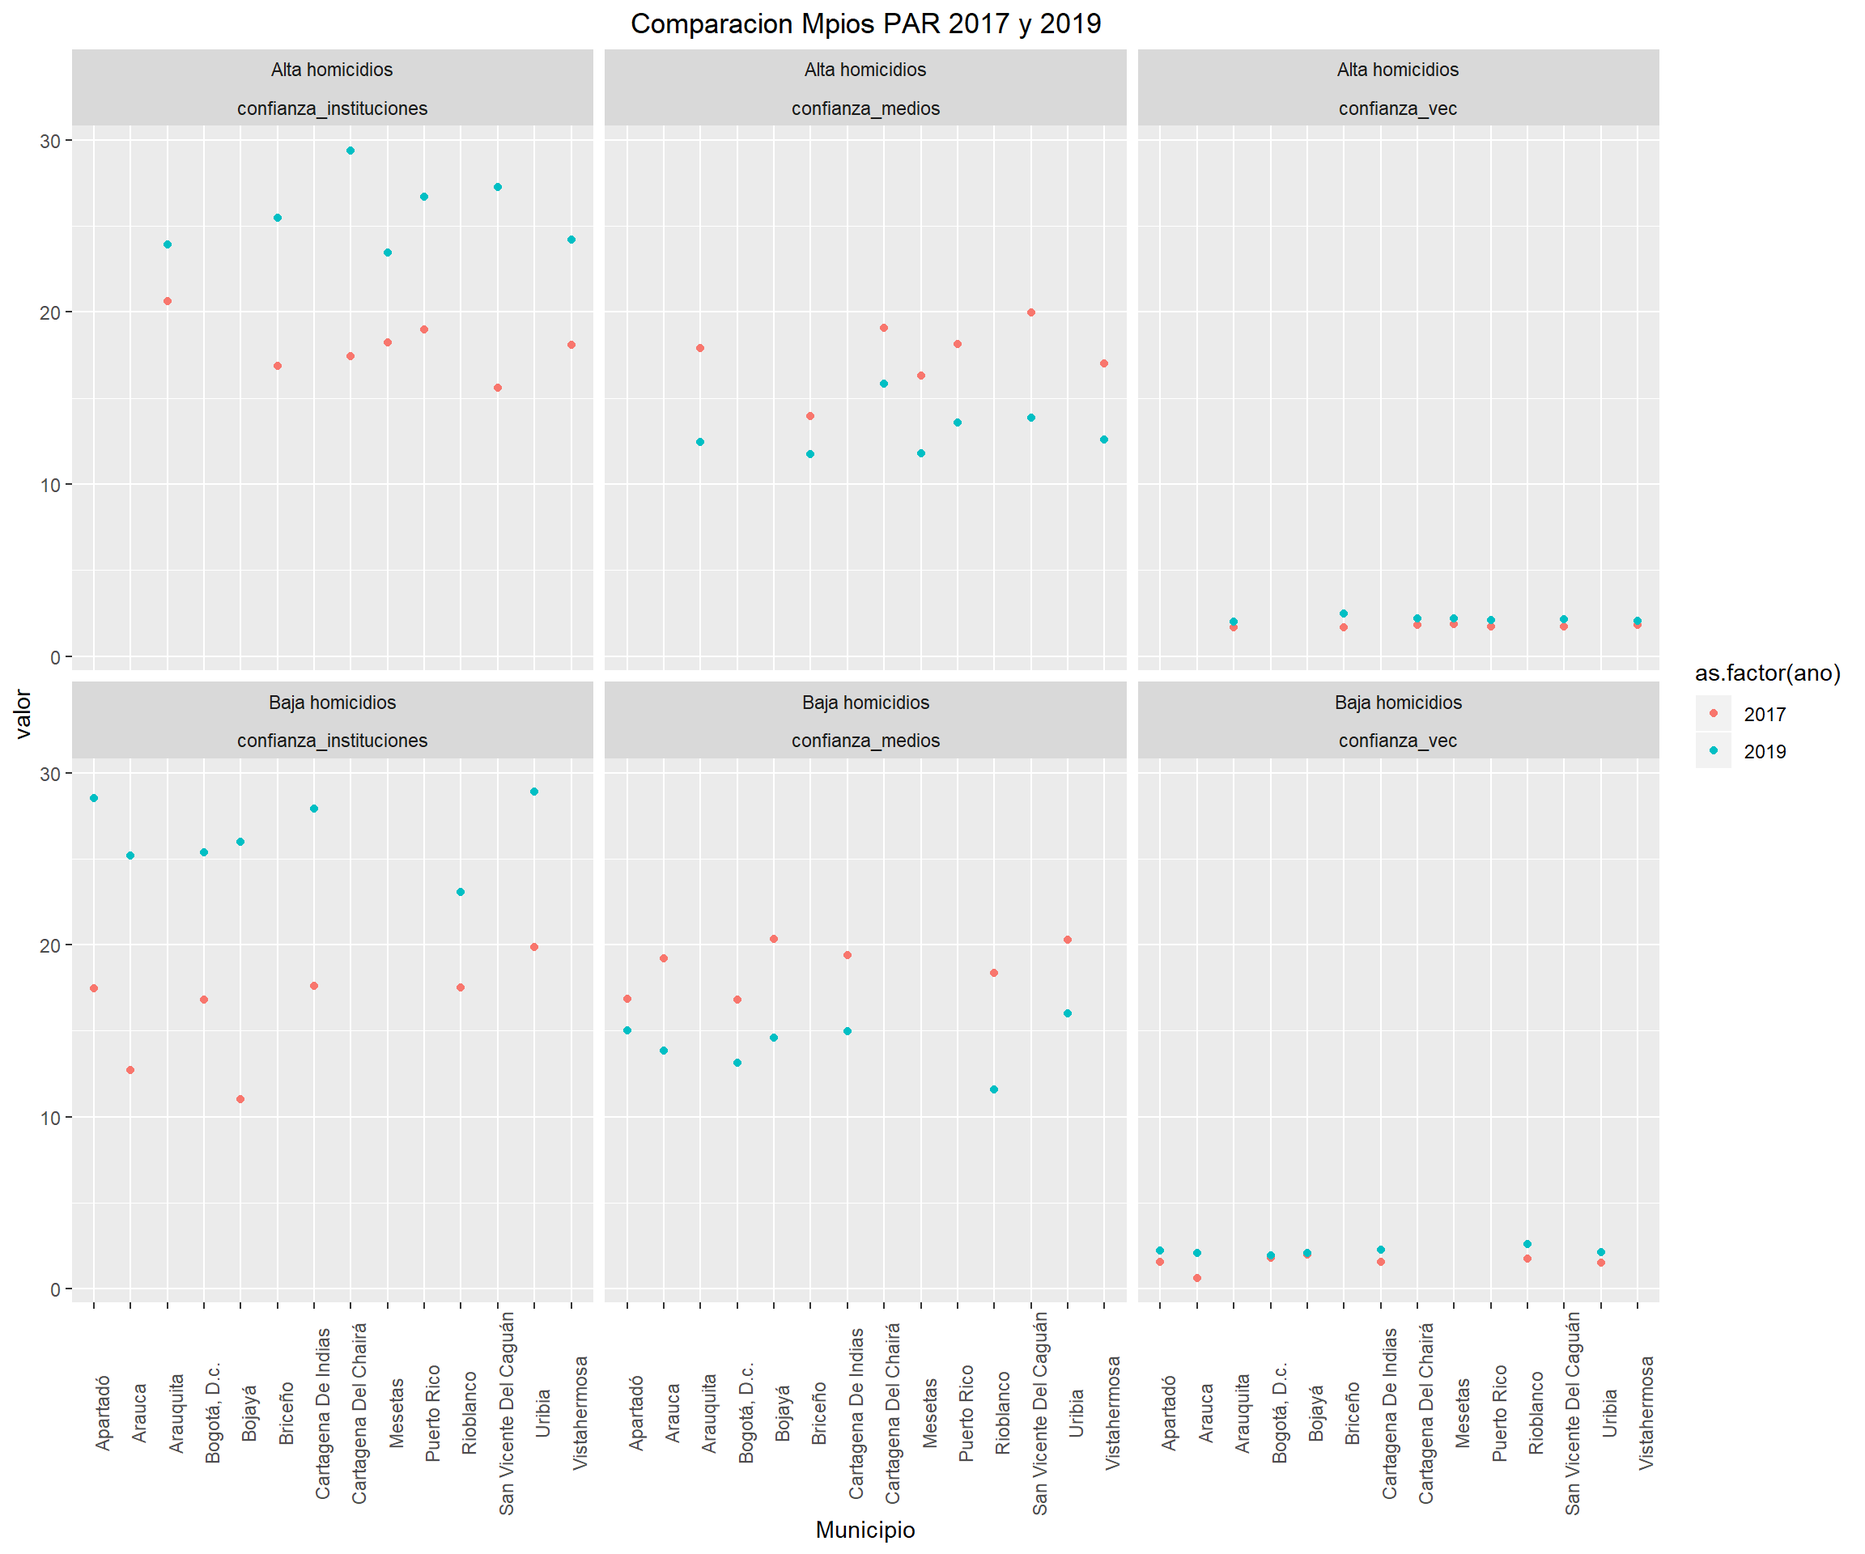
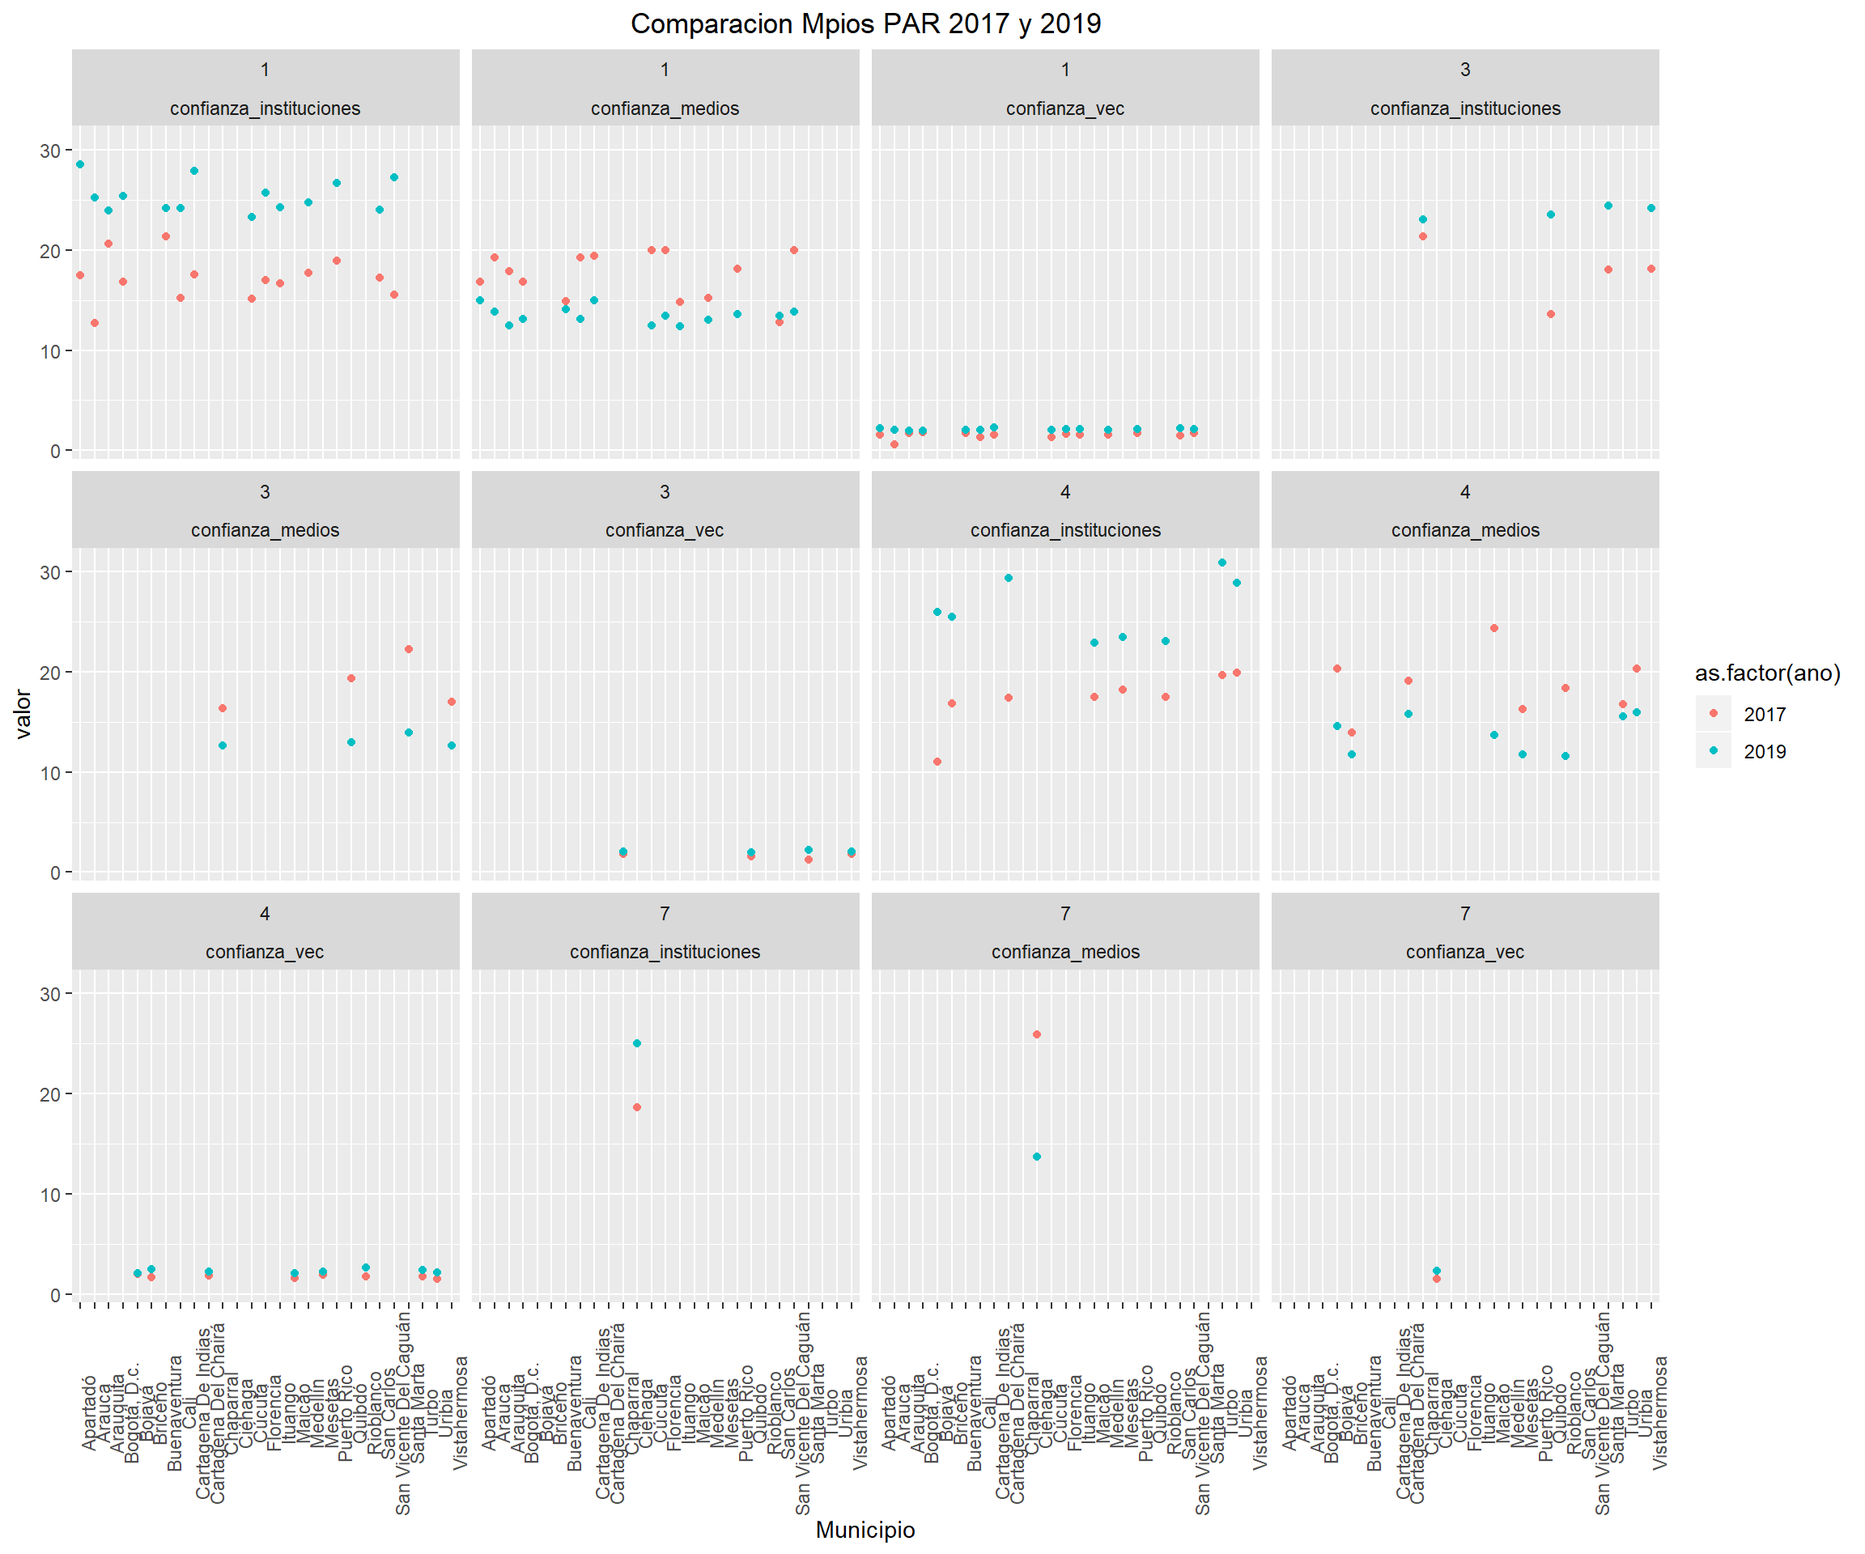
PAR 27 MPIOS

diff --git a/Comparacion_PAR_por_categorias.html b/Comparacion_PAR_por_categorias.html
@@ -652,11 +652,17 @@ div.tocify {
 <span class="kw">library</span>(gridExtra)
 <span class="kw">library</span>(ggplot2)
 <span class="kw">library</span>(forcats)
+<span class="kw">library</span>(readxl)
 <span class="kw">load</span>(<span class="st">&quot;C:/Users/felig/Dropbox/Proyecto Juan Camilo/MergeBases_Environment.RData&quot;</span>)
 <span class="kw">load</span>(<span class="st">&quot;C:/Users/felig/Dropbox/Proyecto Juan Camilo/MergeBases2019_Environment.RData&quot;</span>)
 base_stata &lt;-<span class="st"> </span><span class="kw">read_dta</span>(<span class="st">&quot;Para Stata/base_acdi_stata.dta&quot;</span>,
                                    <span class="dt">encoding=</span><span class="st">&quot;UTF-8&quot;</span>)
-base_stata_<span class="dv">2019</span> &lt;-<span class="st"> </span><span class="kw">read_dta</span>(<span class="st">&quot;C:/Users/felig/Dropbox/Proyecto Juan Camilo/Para Stata/base_acdi_stata_2019.dta&quot;</span>, <span class="dt">encoding=</span><span class="st">&quot;UTF-8&quot;</span>)</code></pre></div>
+base_stata_<span class="dv">2019</span> &lt;-<span class="st"> </span><span class="kw">read_dta</span>(<span class="st">&quot;C:/Users/felig/Dropbox/Proyecto Juan Camilo/Para Stata/base_acdi_stata_2019.dta&quot;</span>, <span class="dt">encoding=</span><span class="st">&quot;UTF-8&quot;</span>)
+base_cerac &lt;-<span class="st"> </span><span class="kw">read_excel</span>(<span class="st">&quot;C:/Users/felig/Dropbox/Proyecto Juan Camilo/Evento ACIDVOCA/Copy of CERAC - Tipología de los municipios de Colombia según el conflicto armado interno.xlsx&quot;</span>, <span class="dt">sheet =</span> <span class="dv">2</span>, <span class="dt">col_names =</span> <span class="ot">TRUE</span>)
+
+base_cerac &lt;-<span class="st"> </span>base_cerac <span class="op">%&gt;%</span><span class="st"> </span><span class="kw">filter</span>(<span class="st">`</span><span class="dt">Mpio PAR</span><span class="st">`</span><span class="op">==</span><span class="dv">1</span>) <span class="op">%&gt;%</span><span class="st"> </span><span class="kw">arrange</span>(Municipio)
+
+base_stata_<span class="dv">2019</span> &lt;-<span class="st"> </span><span class="kw">merge</span>(base_stata_<span class="dv">2019</span>,base_cerac, <span class="dt">by=</span><span class="st">&quot;Municipio&quot;</span>)</code></pre></div>
 </div>
 <div id="graficos-generales" class="section level1">
 <h1><span class="header-section-number">2</span> Graficos generales</h1>
@@ -860,16 +866,17 @@ ano2019 &lt;-<span class="st"> </span><span class="kw">t</span>(ano2019)
 
 
 <span class="co">#Aqui juntamos los valores de interes de la ola 2017 y 2019. </span>
-base_stata_2019_tidy &lt;-<span class="st"> </span><span class="kw">cbind</span>(base_stata_<span class="dv">2019</span>[<span class="dv">1</span>],base_stata_<span class="dv">2017</span>[<span class="kw">names</span>(x2017)], base_stata_<span class="dv">2019</span>[<span class="kw">names</span>(x2019)])
+base_stata_2019_tidy &lt;-<span class="st"> </span><span class="kw">cbind</span>(base_stata_<span class="dv">2019</span>[<span class="dv">1</span>],base_stata_<span class="dv">2017</span>[<span class="kw">names</span>(x2017)],
+                              base_stata_<span class="dv">2019</span>[<span class="kw">names</span>(x2019)], base_stata_<span class="dv">2019</span>[<span class="dv">261</span>])
                               
                               
 <span class="co">#Aqui se hace el tidy para poder generar la variable &quot;indicador&quot;</span>
-base_stata_2019_tidy_ensayo &lt;-<span class="st"> </span>base_stata_2019_tidy <span class="op">%&gt;%</span><span class="st">   </span><span class="kw">gather</span>(<span class="dt">key=</span>indicador, <span class="dt">value=</span>valor, <span class="op">-</span>Municipio)
+base_stata_2019_tidy_ensayo &lt;-<span class="st"> </span>base_stata_2019_tidy <span class="op">%&gt;%</span><span class="st">   </span><span class="kw">gather</span>(<span class="dt">key=</span>indicador, <span class="dt">value=</span>valor, <span class="op">-</span>Municipio, <span class="op">-</span><span class="st">`</span><span class="dt">Grupo de categoría</span><span class="st">`</span>)
 
 <span class="co">#Creamos la columna para distinguir las olas</span>
 base_stata_2019_tidy_ensayo<span class="op">$</span>ano &lt;-<span class="st"> </span><span class="dv">0</span>
-base_stata_2019_tidy_ensayo[<span class="dv">1</span><span class="op">:</span><span class="dv">81</span>,<span class="dv">4</span>] &lt;-<span class="st"> </span><span class="dv">2017</span>
-base_stata_2019_tidy_ensayo[<span class="dv">82</span><span class="op">:</span><span class="dv">162</span>,<span class="dv">4</span>] &lt;-<span class="st"> </span><span class="dv">2019</span>
+base_stata_2019_tidy_ensayo[<span class="dv">1</span><span class="op">:</span><span class="dv">81</span>,<span class="dv">5</span>] &lt;-<span class="st"> </span><span class="dv">2017</span>
+base_stata_2019_tidy_ensayo[<span class="dv">82</span><span class="op">:</span><span class="dv">162</span>,<span class="dv">5</span>] &lt;-<span class="st"> </span><span class="dv">2019</span>
 
 
 <span class="co">#Limpiamos nombres para que todos encajen en uno mismo. </span>
@@ -887,12 +894,37 @@ base_stata_2019_tidy_ensayo <span class="op">%&gt;%</span>
 <span class="kw">theme</span>(<span class="dt">plot.title =</span> <span class="kw">element_text</span>(<span class="dt">hjust =</span> <span class="fl">0.5</span>), <span class="dt">axis.text.x =</span> <span class="kw">element_text</span>(<span class="dt">angle=</span><span class="dv">90</span>))</code></pre></div>
 <p><img src="Comparacion_PAR_por_categorias_files/figure-html/unnamed-chunk-9-1.png" width="1152" /></p>
 <div class="sourceCode"><pre class="sourceCode r"><code class="sourceCode r">base_stata_2019_tidy_ensayo <span class="op">%&gt;%</span>
-<span class="kw">ggplot</span>(<span class="kw">aes</span>(<span class="dt">x=</span>Municipio, <span class="dt">y=</span>valor, <span class="dt">col=</span><span class="kw">as.factor</span>(ano))) <span class="op">+</span>
+<span class="kw">ggplot</span>(<span class="kw">aes</span>(<span class="dt">x=</span><span class="kw">as.factor</span>(indicador), <span class="dt">y=</span>valor, <span class="dt">col=</span><span class="kw">as.factor</span>(ano))) <span class="op">+</span>
 <span class="kw">geom_point</span>()<span class="op">+</span>
-<span class="kw">facet_wrap</span>(<span class="op">~</span><span class="kw">as.factor</span>(indicador))<span class="op">+</span>
+<span class="kw">facet_wrap</span>(<span class="op">~</span>Municipio)<span class="op">+</span>
 <span class="kw">labs</span>(<span class="dt">title=</span><span class="st">&quot;Comparacion Mpios PAR 2017 y 2019&quot;</span>)<span class="op">+</span>
 <span class="kw">theme</span>(<span class="dt">plot.title =</span> <span class="kw">element_text</span>(<span class="dt">hjust =</span> <span class="fl">0.5</span>), <span class="dt">axis.text.x =</span> <span class="kw">element_text</span>(<span class="dt">angle=</span><span class="dv">90</span>))</code></pre></div>
 <p><img src="Comparacion_PAR_por_categorias_files/figure-html/unnamed-chunk-9-2.png" width="1152" /></p>
+<div id="con-base-de-datos-cerac" class="section level2">
+<h2><span class="header-section-number">5.1</span> Con base de datos CERAC</h2>
+<p>Ahora utilizamos la informacion de la base de datos del CERAC.</p>
+<p>Grupo de categorias de los municipios<br />
+1 Fuertemente afectados y persistente<br />
+2 Levemente afectados y persistente<br />
+3 Fuertemente afectados e interrumpido<br />
+4 Levemente afectados e interrumpido<br />
+6 Levemente afectados y finalizado<br />
+7 Sin conflicto</p>
+<div class="sourceCode"><pre class="sourceCode r"><code class="sourceCode r">base_stata_2019_tidy_ensayo <span class="op">%&gt;%</span>
+<span class="kw">ggplot</span>(<span class="kw">aes</span>(<span class="dt">x=</span>Municipio, <span class="dt">y=</span>valor, <span class="dt">col=</span><span class="kw">as.factor</span>(ano))) <span class="op">+</span>
+<span class="kw">geom_point</span>()<span class="op">+</span>
+<span class="kw">facet_wrap</span>(<span class="kw">as.factor</span>(<span class="st">`</span><span class="dt">Grupo de categoría</span><span class="st">`</span>)<span class="op">~</span><span class="kw">as.factor</span>(indicador))<span class="op">+</span>
+<span class="kw">labs</span>(<span class="dt">title=</span><span class="st">&quot;Comparacion Mpios PAR 2017 y 2019&quot;</span>)<span class="op">+</span>
+<span class="kw">theme</span>(<span class="dt">plot.title =</span> <span class="kw">element_text</span>(<span class="dt">hjust =</span> <span class="fl">0.5</span>), <span class="dt">axis.text.x =</span> <span class="kw">element_text</span>(<span class="dt">angle=</span><span class="dv">90</span>))</code></pre></div>
+<p><img src="Comparacion_PAR_por_categorias_files/figure-html/unnamed-chunk-10-1.png" width="1152" /></p>
+<div class="sourceCode"><pre class="sourceCode r"><code class="sourceCode r">base_stata_2019_tidy_ensayo <span class="op">%&gt;%</span>
+<span class="kw">ggplot</span>(<span class="kw">aes</span>(<span class="dt">x=</span><span class="kw">as.factor</span>(indicador), <span class="dt">y=</span>valor, <span class="dt">col=</span><span class="kw">as.factor</span>(ano))) <span class="op">+</span>
+<span class="kw">geom_point</span>()<span class="op">+</span>
+<span class="kw">facet_wrap</span>(<span class="kw">as.factor</span>(<span class="st">`</span><span class="dt">Grupo de categoría</span><span class="st">`</span>)<span class="op">~</span>Municipio)<span class="op">+</span>
+<span class="kw">labs</span>(<span class="dt">title=</span><span class="st">&quot;Comparacion Mpios PAR 2017 y 2019&quot;</span>)<span class="op">+</span>
+<span class="kw">theme</span>(<span class="dt">plot.title =</span> <span class="kw">element_text</span>(<span class="dt">hjust =</span> <span class="fl">0.5</span>), <span class="dt">axis.text.x =</span> <span class="kw">element_text</span>(<span class="dt">angle=</span><span class="dv">90</span>))</code></pre></div>
+<p><img src="Comparacion_PAR_por_categorias_files/figure-html/unnamed-chunk-10-2.png" width="1152" /></p>
+</div>
 </div>
 <div id="graficos-por-categorias-1" class="section level1">
 <h1><span class="header-section-number">6</span> Graficos por categorias</h1>
@@ -918,7 +950,7 @@ base_stata_2019_tidy_ensayo <span class="op">%&gt;%</span>
 <span class="kw">facet_wrap</span>(<span class="kw">as.factor</span>(mun_homicidio)<span class="op">~</span><span class="kw">as.factor</span>(indicador))<span class="op">+</span>
 <span class="kw">labs</span>(<span class="dt">title=</span><span class="st">&quot;Comparacion Mpios PAR 2017 y 2019&quot;</span>)<span class="op">+</span>
 <span class="kw">theme</span>(<span class="dt">plot.title =</span> <span class="kw">element_text</span>(<span class="dt">hjust =</span> <span class="fl">0.5</span>), <span class="dt">axis.text.x =</span> <span class="kw">element_text</span>(<span class="dt">angle=</span><span class="dv">90</span>))</code></pre></div>
-<p><img src="Comparacion_PAR_por_categorias_files/figure-html/unnamed-chunk-10-1.png" width="1152" /></p>
+<p><img src="Comparacion_PAR_por_categorias_files/figure-html/unnamed-chunk-11-1.png" width="1152" /></p>
 </div>
 <div id="municipios-con-ataques-a-la-poblacion-civil-q1-y-q3-1" class="section level2">
 <h2><span class="header-section-number">6.2</span> Municipios con ataques a la poblacion civil (Q1 y Q3)</h2>
@@ -939,7 +971,7 @@ base_stata_2019_tidy_ensayo <span class="op">%&gt;%</span>
 <span class="kw">facet_wrap</span>(<span class="kw">as.factor</span>(mun_violentado)<span class="op">~</span><span class="kw">as.factor</span>(indicador))<span class="op">+</span>
 <span class="kw">labs</span>(<span class="dt">title=</span><span class="st">&quot;Comparacion Mpios PAR 2017 y 2019&quot;</span>)<span class="op">+</span>
 <span class="kw">theme</span>(<span class="dt">plot.title =</span> <span class="kw">element_text</span>(<span class="dt">hjust =</span> <span class="fl">0.5</span>), <span class="dt">axis.text.x =</span> <span class="kw">element_text</span>(<span class="dt">angle=</span><span class="dv">90</span>))</code></pre></div>
-<p><img src="Comparacion_PAR_por_categorias_files/figure-html/unnamed-chunk-11-1.png" width="1152" /></p>
+<p><img src="Comparacion_PAR_por_categorias_files/figure-html/unnamed-chunk-12-1.png" width="1152" /></p>
 </div>
 <div id="municipios-donde-hubo-secuestros-q1-y-q3-1" class="section level2">
 <h2><span class="header-section-number">6.3</span> Municipios donde hubo secuestros (Q1 y Q3)</h2>
@@ -959,7 +991,7 @@ base_stata_2019_tidy_ensayo <span class="op">%&gt;%</span>
 <span class="kw">facet_wrap</span>(<span class="kw">as.factor</span>(mun_secuestrado)<span class="op">~</span><span class="kw">as.factor</span>(indicador))<span class="op">+</span>
 <span class="kw">labs</span>(<span class="dt">title=</span><span class="st">&quot;Comparacion Mpios PAR 2017 y 2019&quot;</span>)<span class="op">+</span>
 <span class="kw">theme</span>(<span class="dt">plot.title =</span> <span class="kw">element_text</span>(<span class="dt">hjust =</span> <span class="fl">0.5</span>), <span class="dt">axis.text.x =</span> <span class="kw">element_text</span>(<span class="dt">angle=</span><span class="dv">90</span>))</code></pre></div>
-<p><img src="Comparacion_PAR_por_categorias_files/figure-html/unnamed-chunk-12-1.png" width="1152" /></p>
+<p><img src="Comparacion_PAR_por_categorias_files/figure-html/unnamed-chunk-13-1.png" width="1152" /></p>
 </div>
 <div id="municipios-donde-hubo-desmovilizados-q1-y-q3-1" class="section level2">
 <h2><span class="header-section-number">6.4</span> Municipios donde hubo desmovilizados (Q1 y Q3)</h2>
@@ -980,7 +1012,7 @@ base_stata_2019_tidy_ensayo <span class="op">%&gt;%</span>
 <span class="kw">facet_wrap</span>(<span class="kw">as.factor</span>(mun_desmovilizado)<span class="op">~</span><span class="kw">as.factor</span>(indicador))<span class="op">+</span>
 <span class="kw">labs</span>(<span class="dt">title=</span><span class="st">&quot;Comparacion Mpios PAR 2017 y 2019&quot;</span>)<span class="op">+</span>
 <span class="kw">theme</span>(<span class="dt">plot.title =</span> <span class="kw">element_text</span>(<span class="dt">hjust =</span> <span class="fl">0.5</span>), <span class="dt">axis.text.x =</span> <span class="kw">element_text</span>(<span class="dt">angle=</span><span class="dv">90</span>))</code></pre></div>
-<p><img src="Comparacion_PAR_por_categorias_files/figure-html/unnamed-chunk-13-1.png" width="1152" /></p>
+<p><img src="Comparacion_PAR_por_categorias_files/figure-html/unnamed-chunk-14-1.png" width="1152" /></p>
 </div>
 <div id="municipios-pobres-q1-y-q3-1" class="section level2">
 <h2><span class="header-section-number">6.5</span> Municipios pobres (Q1 y Q3)</h2>
@@ -1001,7 +1033,7 @@ base_stata_2019_tidy_ensayo <span class="op">%&gt;%</span>
 <span class="kw">facet_wrap</span>(<span class="kw">as.factor</span>(mun_pobre)<span class="op">~</span><span class="kw">as.factor</span>(indicador))<span class="op">+</span>
 <span class="kw">labs</span>(<span class="dt">title=</span><span class="st">&quot;Comparacion Mpios PAR 2017 y 2019&quot;</span>)<span class="op">+</span>
 <span class="kw">theme</span>(<span class="dt">plot.title =</span> <span class="kw">element_text</span>(<span class="dt">hjust =</span> <span class="fl">0.5</span>), <span class="dt">axis.text.x =</span> <span class="kw">element_text</span>(<span class="dt">angle=</span><span class="dv">90</span>))</code></pre></div>
-<p><img src="Comparacion_PAR_por_categorias_files/figure-html/unnamed-chunk-14-1.png" width="1152" /></p>
+<p><img src="Comparacion_PAR_por_categorias_files/figure-html/unnamed-chunk-15-1.png" width="1152" /></p>
 </div>
 <div id="municipios-con-presencia-de-educaciones-educativas-1" class="section level2">
 <h2><span class="header-section-number">6.6</span> Municipios con presencia de educaciones educativas</h2>
@@ -1022,7 +1054,7 @@ base_stata_2019_tidy_ensayo <span class="op">%&gt;%</span>
 <span class="kw">facet_wrap</span>(<span class="kw">as.factor</span>(mun_establ)<span class="op">~</span><span class="kw">as.factor</span>(indicador))<span class="op">+</span>
 <span class="kw">labs</span>(<span class="dt">title=</span><span class="st">&quot;Comparacion Mpios PAR 2017 y 2019&quot;</span>)<span class="op">+</span>
 <span class="kw">theme</span>(<span class="dt">plot.title =</span> <span class="kw">element_text</span>(<span class="dt">hjust =</span> <span class="fl">0.5</span>), <span class="dt">axis.text.x =</span> <span class="kw">element_text</span>(<span class="dt">angle=</span><span class="dv">90</span>))</code></pre></div>
-<p><img src="Comparacion_PAR_por_categorias_files/figure-html/unnamed-chunk-15-1.png" width="1152" /></p>
+<p><img src="Comparacion_PAR_por_categorias_files/figure-html/unnamed-chunk-16-1.png" width="1152" /></p>
 </div>
 </div>
 
